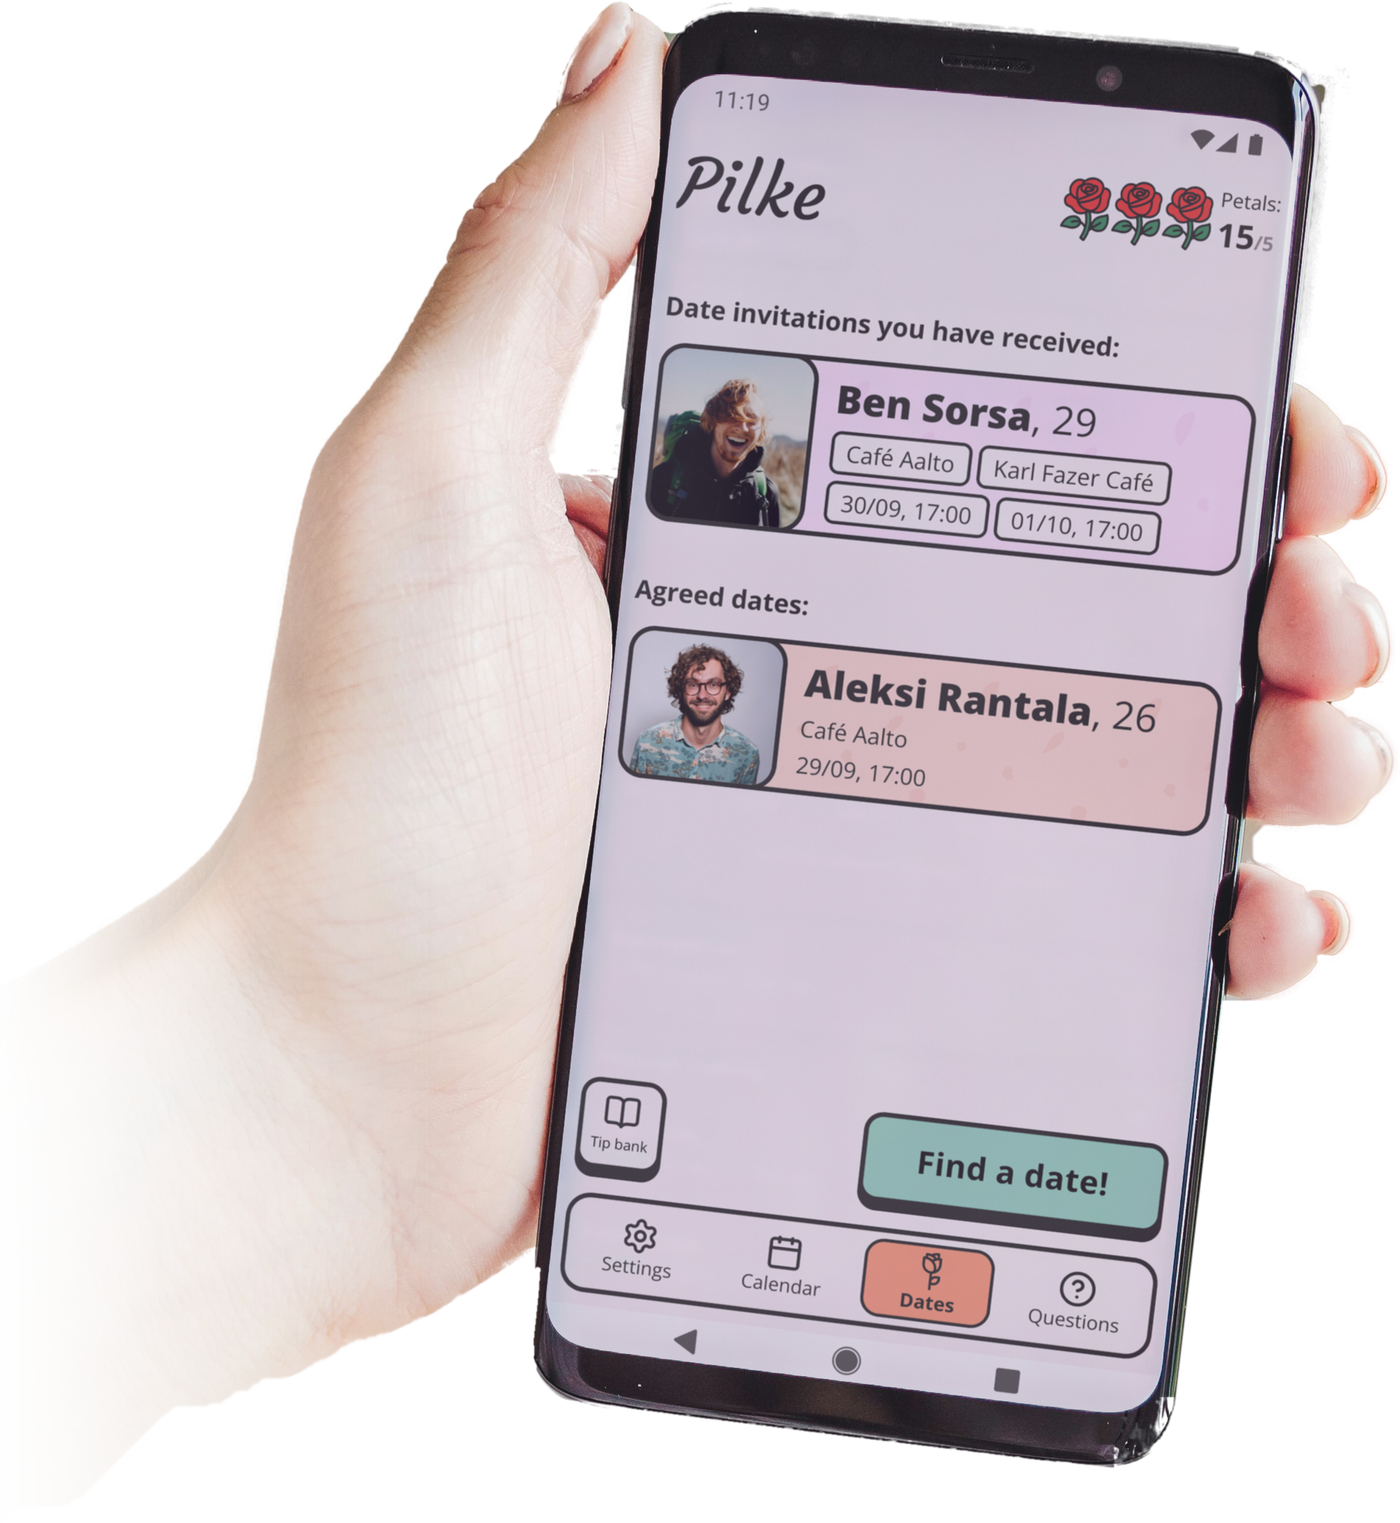
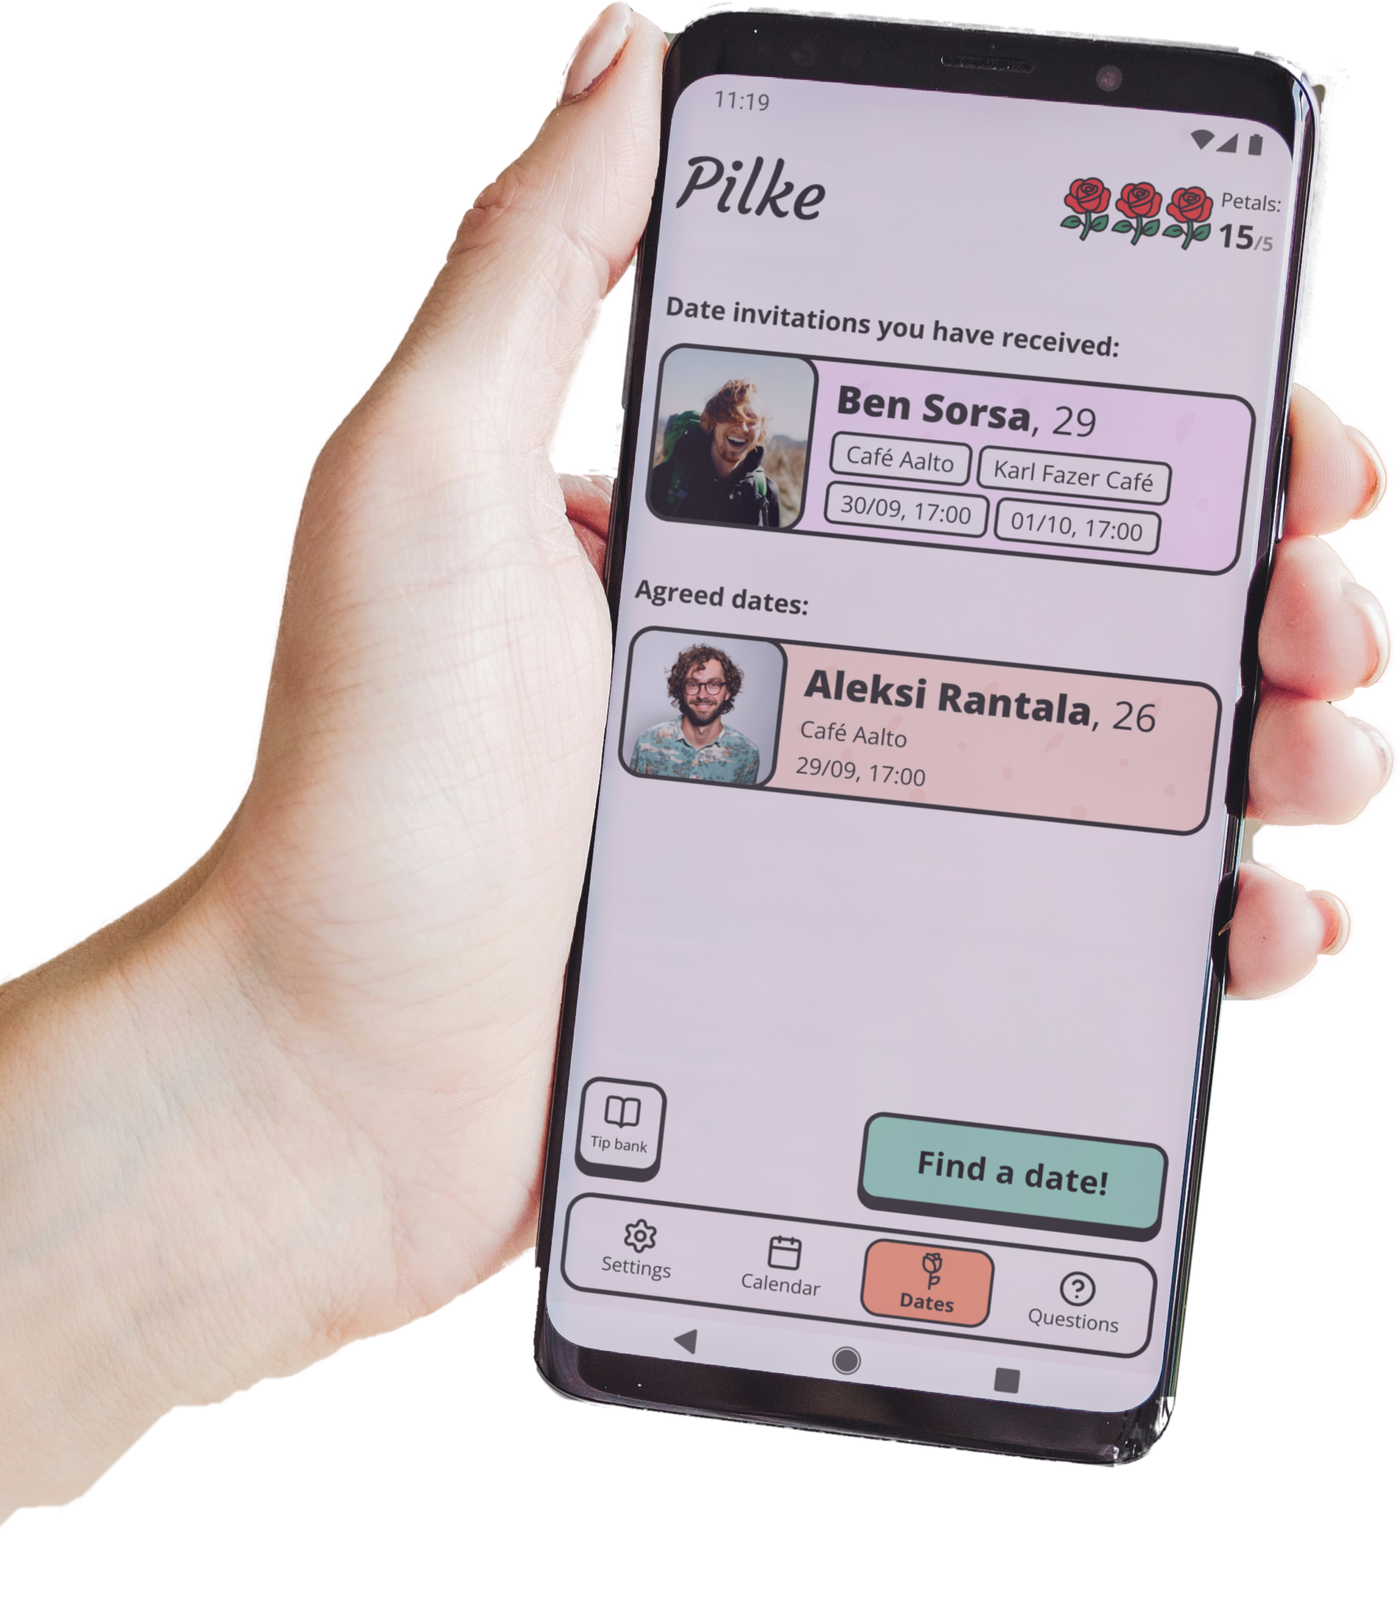
site: the disc clips the hero's hand, and the petals sit behind every card's content
The owner's two fixes. The hero's hand and arm no longer fade out to the
left: the coral disc clips them, crisp and anti-aliased on its outline at
every width, and the phone with the thumb and fingers holding it still
stands over the disc's edge. It is one mask on the one picture, the disc's
own circle added to the phone's part (hero-cutout-phone.png, baked beside
the cut-out), so nothing is drawn twice. The shadow under the cut-out goes,
because a shadow of the clipped hand fell past the disc.

The scattered petals now sit at the bottom of their card's own stacking
context: z-index -1 in a parent that isolates, so they are under every
text, field, button and photograph however the content is wrapped. The
footer's beta card wrapped its copy in display: contents, which let a petal
over the privacy link at 390; the hero, the start card, the rose panel and
every subpage slab drop the per-card rules that lifted their content over
the petals one child at a time.

Claude-Session: https://claude.ai/code/session_01GD9L6NkBiCqNs6T5pZN8hJ

Changed region(s): [[0.0, 0.0309, 1.0, 0.9875], [0.4607, 0.0309, 0.7064, 0.1543], [0.7679, 0.0, 0.86, 0.0309]]

diff --git a/src/styles/soft.css b/src/styles/soft.css
@@ -41,6 +41,7 @@
 .slab > .wrap {
   position: relative;
   overflow: hidden;
+  isolation: isolate;
   border-radius: var(--radius-panel);
 }
 
@@ -61,10 +62,6 @@
   background: var(--mint-ground);
 }
 
-/* Anything laid over the scattered petals needs a layer above them. */
-.slab > .wrap > :not(.petals) {
-  position: relative;
-}
 
 /* The padding inside a card, as a straight line from the phone artboard's to the
    desktop's. Block and inline differ because a phone needs its side room for the

diff --git a/scripts/photos/cutout.py b/scripts/photos/cutout.py
@@ -8,8 +8,11 @@ in from the certain pixels nearest; the room behind is out of focus, so its
 colour under the edge is well estimated. The phone's rim is dark and the room
 round it light, so dark pixels by the phone stay. The colours in the band are
 the hand's own, spread in from inside, so no fringe of the room shows on the
-coral. The arm fades
-out towards the left, where the photograph cuts it.
+coral.
+
+The page clips the hand and arm with the disc and lets the phone, with the
+fingers and thumb holding it, stand over the disc's edge; the phone's part is a
+second file, a mask of the same size.
 
 The cut is made once, on the Finnish composite, and the same alpha is laid on
 each language's: the phone is opaque, so what its screen shows cannot move the
@@ -119,10 +122,8 @@ thumb[1260:1480, 1140:1400] = 1
 thumb = cv2.GaussianBlur(thumb, (0, 0), 8)
 a = np.where(band > 0, a * (1 - thumb + thumb * np.maximum(notgreen, rim)), a)
 
-# 5. Feather: a smooth, slightly soft edge, then the arm's fade.
+# 5. A smooth edge, anti-aliased and no softer.
 a = cv2.GaussianBlur(a, (0, 0), 0.8)
-x = np.arange(W, dtype=np.float32)
-a *= np.clip((x - 350) / 650, 0, 1)[None, :] ** 1.5
 
 # 6. The band takes the hand's own colour, spread in from inside, fading to the
 # photo's where the alpha is nearly whole: none of the room's colour is left at
@@ -130,7 +131,8 @@ a *= np.clip((x - 350) / 650, 0, 1)[None, :] ** 1.5
 t = np.clip((a - 0.7) / 0.3, 0, 1)[..., None]
 alpha8 = (np.clip(a, 0, 1) * 255 + 0.5).astype(np.uint8)
 ys, xs = np.nonzero(alpha8 > 2)
-box = (int(xs.min()), int(ys.min()), int(xs.max()) + 1, int(ys.max()) + 1)
+# Left of x 380 the arm is left of the disc at every width, so it is never drawn.
+box = (380, int(ys.min()), int(xs.max()) + 1, int(ys.max()) + 1)
 print('bbox', box)
 for lang in LANGS:
     Il = cv2.cvtColor(cv2.imread(f'hero-{lang}-full.jpg'), cv2.COLOR_BGR2RGB).astype(np.float32) / 255
@@ -139,3 +141,14 @@ for lang in LANGS:
     rgba = np.dstack([(col * 255 + 0.5).astype(np.uint8), alpha8])
     Image.fromarray(rgba).crop(box).save(f'cutout-{lang}-full.png', optimize=True)
 open('cutout-box.txt', 'w').write(' '.join(map(str, box)))
+
+# 7. The phone's part: the phone and a margin round it, the thumb over its top
+# corner and the fingers over its right edge. Its edges run through the room, or
+# through the palm where it is solid, so laid over the disc-clipped hand it adds
+# the phone and nothing else.
+m = cv2.dilate(poly(phone), ell(81))
+m[1250:1600, 1150:1420] = 1
+m[1830:2800, 2180:2450] = 1
+m = cv2.GaussianBlur(m.astype(np.float32), (0, 0), 0.7)
+mask = np.dstack([np.full((H, W, 3), 255, np.uint8), (m * 255 + 0.5).astype(np.uint8)])
+Image.fromarray(mask).crop(box).save('cutout-phone-full.png', optimize=True)

diff --git a/scripts/photos/crops.py b/scripts/photos/crops.py
@@ -29,3 +29,8 @@ for lang in LANGS:
     web(f'ex3-{lang}-full.jpg', (1150, 1500, 3445, 4560), 1100, f'safety-date-{lang}.jpg')
     # The right fifth of the original is left out: a blurred cheek and sunglasses.
     web(f'beta-{lang}-full.jpg', (970, 1650, 3050, 4250), 1000, f'beta-invitation-{lang}.jpg')
+
+# The phone's part of the cut-out, as a mask of the same size, for both languages.
+phone = Image.open('cutout-phone-full.png')
+phone.resize((1400, round(phone.height * 1400 / phone.width)), Image.LANCZOS).save(
+    os.path.join(WEB, 'hero-cutout-phone.png'), optimize=True)

diff --git a/docs/pictures.md b/docs/pictures.md
@@ -124,7 +124,7 @@ that are visible, so a change to any of them can be traced back to the pictures 
 | `feedback` | Date feedback | `screenshotFeedback.yaml` | The partner card with the date's time, one feedback question and its `Kylla` / `Ei` answers |
 | `story` | Story test, first question | `screenshotStory.yaml` | The wordmark on the yellow onboarding ground, the progress dots, the question and its options, `Jatka` |
 | `asetukset` | Settings, Safety open | `screenshots.yaml` | The Safety section's whole explanation, the trusted-contact field and its save button, the tab bar. The most copy of any picture here, so it goes stale on wording as well as on layout |
-| `hero-cutout-fi` | Home, populated, **inside a photograph, cut out** | `screens/treffit.png` composited by `scripts/photos/hero.py fi`, cut out by `scripts/photos/cutout.py` | Everything `treffit` shows, both Android bars included (the phone in the photo is an Android), bent round the phone's curved edges; the hand and phone only, transparent, on the page's coral disc. A reshoot of `treffit` reaches the page only through this composite |
+| `hero-cutout-fi` | Home, populated, **inside a photograph, cut out** | `screens/treffit.png` composited by `scripts/photos/hero.py fi`, cut out by `scripts/photos/cutout.py` | Everything `treffit` shows, both Android bars included (the phone in the photo is an Android), bent round the phone's curved edges; the hand and phone only, transparent, on the page's coral disc, which clips the hand and arm; `hero-cutout-phone.png`, a mask of the same size, lets the phone and the fingers holding it stand over the disc's edge. A reshoot of `treffit` reaches the page only through this composite |
 | `hero-cutout-en` | Home, English, **inside a photograph, cut out** | `scripts/photos/stills/treffit-en.png` composited by `hero.py en`, cut out with the Finnish one's alpha | The English home: Ben Sorsa's invitation, the date agreed with Aleksi Rantala, the petal count, both Android bars |
 | `loop-calendar-fi` | Calendar week, **inside a photograph** | `scripts/photos/stills/kalenteri-fi.png` composited by `scripts/photos/loop.py fi` | The week centred on Tuesday: free date slots (`Treffivaraus`) and your own plans (`Palaveri`, `Sali`, `Hammaslääkäri`), under a drawn iOS status bar and home indicator |
 | `loop-calendar-en` | Calendar week, English, **inside a photograph** | `scripts/photos/stills/kalenteri-en.png` composited by `loop.py en` | The same week in English: `Date slot`, `Meeting`, `Gym`, `Dentist` |
